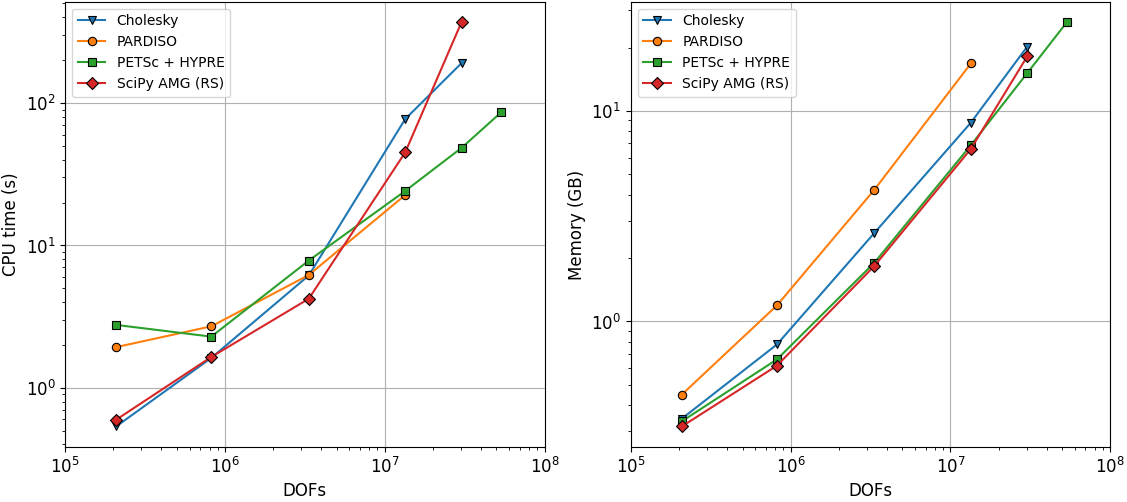
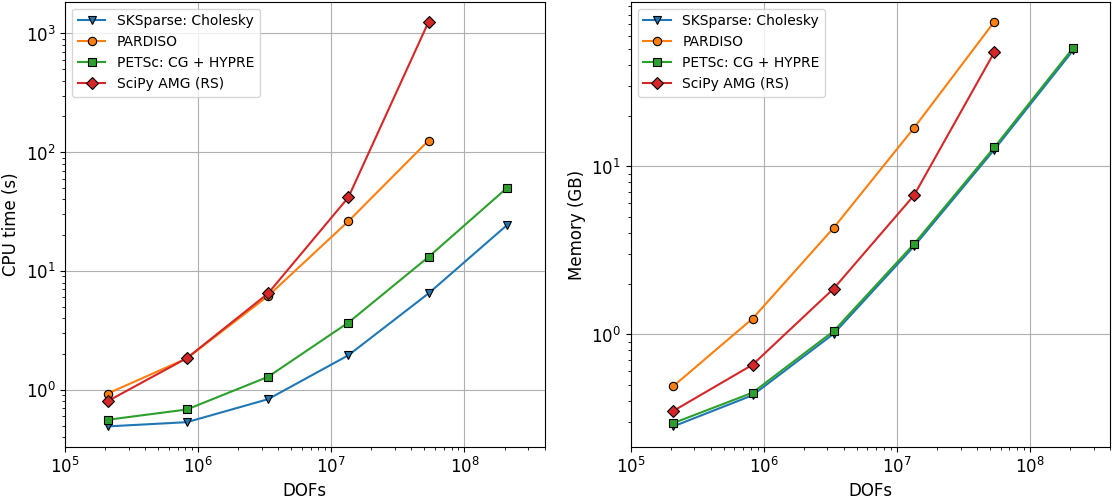
New results for solvers tested on AWS machine

diff --git a/Transport_code_accelerated.py b/Transport_code_accelerated.py
@@ -341,7 +341,7 @@ def solve_diffusion(n, g, solver="auto"):
     # Solve the linear system  #
     # ************************ #
     # Known solvers
-    SOLVERS = ["none", "auto", "cholesky", "pardiso", "scipy.spsolve", "scipy.amg.rs", "scipy.amg.sa", "scipy", "petsc"]
+    SOLVERS = ["none", "auto", "cholesky", "pardiso", "scipy.spsolve", "scipy.amg.rs", "scipy.amg.sa", "scipy", "petsc", "petsc.mumps"]
     if solver not in SOLVERS:
         logger.warning(f"Unknown solver: {solver}, using 'cholesky' instead.")
         solver = "cholesky"
@@ -435,6 +435,7 @@ def solve_diffusion(n, g, solver="auto"):
         A_p = PETSc.Mat().createAIJ(size=A.shape, csr=(A.indptr, A.indices, A.data))
         ksp = PETSc.KSP().create()
         ksp.setOperators(A_p)
+        # TODO: can further try different PETSc solvers (the choice is huge: https://petsc.org/release/petsc4py/reference/petsc4py.PETSc.KSP.Type.html
         ksp.setType('cg')
         pc = ksp.getPC()
         # pc.setType('gamg')     
@@ -442,8 +443,29 @@ def solve_diffusion(n, g, solver="auto"):
         # pc.setHYPREType('boomeramg')
         ksp.setTolerances(rtol=1e-8)
         ksp.setFromOptions()
+        b_p = PETSc.Vec().createWithArray(b)
+        x_p = b_p.duplicate()
+        ksp.solve(b_p, x_p)
+        p = x_p.getArray()
+    elif solver == "petsc.mumps":
+        logger.info("Using PETSc MUMPS direct solver.")
+        from petsc4py import PETSc
+        A = A.tocsr()
+        A_p = PETSc.Mat().createAIJ(size=A.shape, csr=(A.indptr, A.indices, A.data))
         b_p = PETSc.Vec().createWithArray(b); x_p = b_p.duplicate()
-        ksp.solve(b_p, x_p); p = x_p.getArray()
+        x_p = b_p.duplicate()
+
+        ksp = PETSc.KSP().create()
+        ksp.setOperators(A_p)
+        ksp.setType('preonly')
+        pc = ksp.getPC()
+        pc.setType('lu')
+        pc.setFactorSolverType('mumps')
+
+        # PETSc.Options()['mat_mumps_icntl_4'] = 2
+        ksp.setFromOptions()
+        ksp.solve(b_p, x_p)
+        p = x_p.getArray()
 
     # gc.collect()
         

diff --git a/Solution_test.py b/Solution_test.py
@@ -83,16 +83,16 @@ def plot_fields(g, pressure, flux, suffix="", VectorField=False, plot_n_vectors 
 ############################################
 
 def main():
-    N0 = 4000           # Size of the random field
+    N0 = 512           # Size of the random field
     """
         Available solvers:
         + "scipy.amg.rs" - optimal for memory
         + "cholesky"     - optimal for speed (if enough memory), only 10% more than petsc
         + "petsc"        - very fast and memory efficient, 4x scipy.amg.rs and only 20% more memory
     """
-    solver = "petsc"
+    solver = "petsc.mumps"
     k_low =   8 / N0   # Lower cutoff of the power spectrum
-    k_high = 1000 / N0   # Upper cutoff of the power spectrum
+    k_high = 20 / N0   # Upper cutoff of the power spectrum
     Hurst = 0.5         # Hurst exponent
     dim = 2             # Dimension of the random field
     seed = 23349        # Seed for the random number generator

diff --git a/README.md b/README.md
@@ -60,20 +60,20 @@ if flux is not None: plt.imshow(np.sqrt(flux[:,:,0]**2 + flux[:,:,1]**2), origin
 The fluid flow solver supports several linear system solvers and preconditioners for efficient and robust solution of large sparse systems:
 
 **Direct Solvers:**
-- 🥇**Cholesky (`cholesky`)**: Uses CHOLMOD via scikit-sparse. Fastest for moderate system sizes if enough memory is available.
-- **PARDISO (`pardiso`)**: Intel MKL PARDISO direct solver, efficient for large symmetric systems (memory optimized low-level parameters are used).
+- 🏆 **Cholesky (`cholesky`)**: Uses CHOLMOD via scikit-sparse. Fastest among all tested solvers and very memory efficient.
+- **PARDISO (`pardiso`)**: Intel MKL PARDISO direct solver, worse in memory and slower than leaders, suboptimal.
 - **SciPy LU (`scipy.spsolve`)**: Standard LU decomposition from SciPy (not recommended for large problems: too slow and consumes a lot of memory).
 
 **Iterative Solvers:**
-- 🏆 **PETSc CG with HYPRE Preconditioner (`petsc`)**: Uses PETSc's CG solver with HYPRE preconditioning for high performance and scalability - this is the fastest solver.
-- **Conjugate Gradient with AMG Preconditioner (`scipy.amg.rs`, `scipy.amg.sa`, `scipy`)**: Uses PyAMG's Ruge-Stuben or Smoothed Aggregation algebraic multigrid as a preconditioner for the conjugate gradient method - 🥈 **`scipy.amg.rs`** is one of the best in terms of performance choices, the most memory efficient.
+- 🥇 **PETSc CG with HYPRE Preconditioner (`petsc`)**: Uses PETSc's CG solver with HYPRE preconditioning for high performance and scalability - leader in memory consumption along with Cholesky but is slightly slower, at least at Intel.
+- **Conjugate Gradient with AMG Preconditioner (`scipy.amg.rs`, `scipy.amg.sa`, `scipy`)**: Uses PyAMG's Ruge-Stuben or Smoothed Aggregation algebraic multigrid as a preconditioner for the conjugate gradient method; **`scipy.amg.rs`** explodes in time for bigger problems, suboptimal.
 
-**Rules of thumb:** If `auto` is specified, `cholesky` solver is used. For memory-limited cases, use `scipy.amg.rs`. For speed, use `petsc`.
+**Rules of thumb:** If `auto` is specified, `cholesky` solver is used. The backup solution is `petsc`.
 
 
 ## Performance
 
-Performance of the code on a truncated rough surface is shown below. The peak memory consumption and the CPU time required to perform connectivity analysis, constructing the matrix and solving the linear system are provided. The real number of DOFs is reported which corresponds to approximately 84% of the square grid $N\times N$ for $N\in\{500,1\,000,2\,000,4\,000,6\,000,8\,000\}$.
+Performance of the code on a truncated rough surface is shown below. The peak memory consumption and the CPU time required to perform connectivity analysis, constructing the matrix and solving the linear system are provided. The real number of DOFs is reported which corresponds to approximately 84% of the square grid $N\times N$ for $N\in\{500,1\,000,2\,000,4\,000,6\,000,8\,000,16\,000\}$.
 
 ![CPU and RAM performance of the solver](CPU_RAM_real_dof_performance.png)
 
